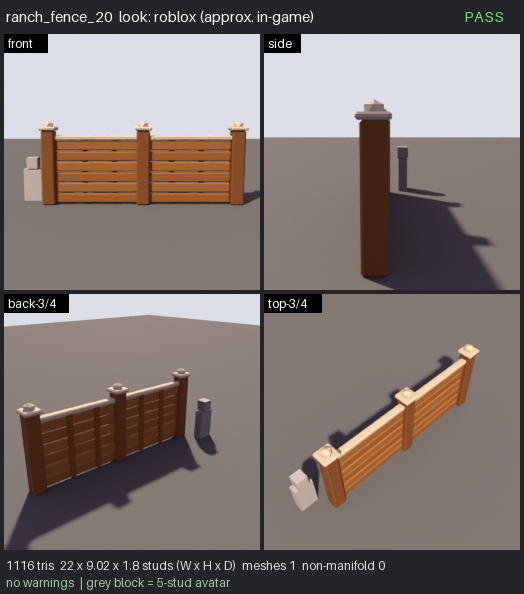
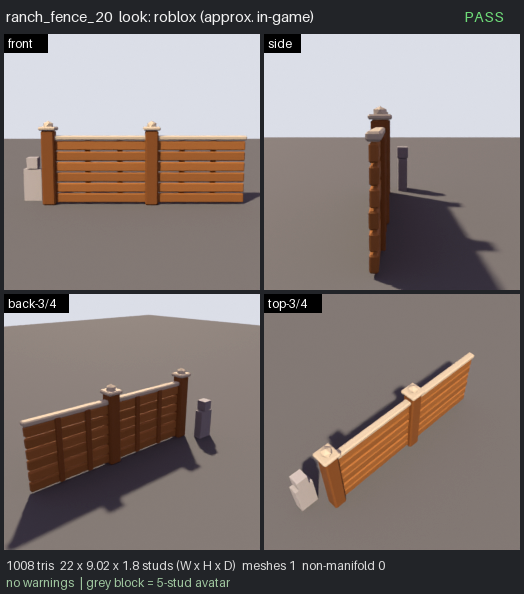
modeling-kit: ranch_fence_20 + ranch_landing_ring with one end post (no doubled posts at seams)
Both pieces had a post/stake at each end, so tiled runs showed two side by
side at every seam. The post now sits at the -X end only (like
phoenix_fence_segment); native sizes are unchanged (22 x 9.02 x 1.8 and
13.145 x 3.145 x 10.27), so the game's slot fits and asset entries hold until
the re-upload.

diff --git a/shared/modeling-kit/models/ranch_fence_20.py b/shared/modeling-kit/models/ranch_fence_20.py
@@ -1,15 +1,19 @@
-# ranch_fence_20: 20-stud plot fence = two phoenix_fence_segment bays joined, with a post at both ends
-# and a mid post at the 10-stud mark. Same posts/planks/rail/battens/colours/height (shared helpers in
-# models/_phoenix_ranch.py). Outer face -Y. End posts sit at x=+-10.1 so the native length is 22.0
-# (11 per 10 studs, like the segment): a uniform 20/22 = 10/11 scale tiles a 20-stud grid and gives
-# the exact same height as phoenix_fence_segment at FENCE_SCALE.
+# ranch_fence_20: 20-stud plot fence = two phoenix_fence_segment bays joined. Like the segment it has
+# a post at its -X end only (plus the mid post): the next panel's -X post closes the +X end, so a run
+# shows ONE post per joint (r02; r01 had posts at both ends, doubled where panels met). Same posts/
+# planks/rail/battens/colours/height (shared helpers in models/_phoenix_ranch.py). Outer face -Y.
+# Native length stays 22.0 (11 per 10 studs, like the segment): the -X post cap reaches x=-11.0, the
+# rail x=+11.0, so a uniform 20/22 = 10/11 scale tiles a 20-stud grid at the same height as
+# phoenix_fence_segment at FENCE_SCALE, and the posts land where two segments put theirs.
 from lib import *
 from models._phoenix_ranch import *
-END = SEG + 0.1  # 22.0 overall incl. caps (1.8 wide)
+END = SEG + 0.1  # -X post centre; with the 1.8 cap the panel spans -11.0..+11.0
+MID = 0.9        # second bay's post: two segments at 10/11 put theirs at -10.1 and +0.9 native
+RAIL = 0.1       # board_wall's rail overhangs each end by 0.1
 parts = []
-for i, x in enumerate((-END, 0.0, END)):
+for i, x in enumerate((-END, MID)):
     parts += rpost(f"Post{i}", x, 0, WALL_H)
-# same span as the segment wall: from the post's inner face into the next post's centre
-parts += board_wall("WA", -END + POST_W / 2, 0.0, WALL_H - 0.3, seed=3)
-parts += board_wall("WB", 0.0, END - POST_W / 2, WALL_H - 0.3, seed=4)
+# walls from the post's inner face into the mid post's centre, then on to the open +X end
+parts += board_wall("WA", -END + POST_W / 2, MID, WALL_H - 0.3, seed=3)
+parts += board_wall("WB", MID, END + 0.9 - RAIL, WALL_H - 0.3, seed=4)
 finish("ranch_fence_20", parts)

diff --git a/shared/modeling-kit/models/ranch_landing_ring.py b/shared/modeling-kit/models/ranch_landing_ring.py
@@ -1,6 +1,6 @@
 # ranch_landing_ring: one curb segment for the wild-slime landing ring around the fountain plaza
 # (Slime Ranch). A curved, soft ranch_plaza curb on the INNER edge of the wild landing band
-# (r34-62): curb r34-35.7, ~12 studs of arc, wood stake posts + butter caps, and a goo splat
+# (r34-62): curb r34-35.7, ~12 studs of arc, a wood stake post + butter cap at the -X end, and a goo splat
 # puddle beyond r36 on the landing side where wilds plop down off the slide.
 # Local frame: arc centre (fountain/plaza centre) is at y = +R, so +Y faces the fountain and the
 # landing side is -Y (outward). Tile it by rotating copies about the plaza centre.
@@ -58,8 +58,9 @@ def on_ring(r, deg):
     return math.sin(a) * r, R - math.cos(a) * r, -deg  # x, y, yaw
 
 
-# wood stakes at both ends of the segment (shared visual rhythm when tiled) with butter caps
-for deg in (-SPAN / 2 + 0.6, SPAN / 2 - 0.6):
+# one wood stake per segment, at its -X end, with a butter cap: tiled, the next segment's stake
+# closes this one's +X end, so each seam shows ONE stake (r01 had both ends: doubled at every seam)
+for deg in (-SPAN / 2 + 0.6,):
     x, y, yaw = on_ring(R + 0.85, deg)
     s = box("Stake", (0.8, 0.8, 2.6), (x, y, 1.3), rot=(0, 0, yaw))
     bevel(s, 0.12)

diff --git a/shared/modeling-kit/LESSONS.md b/shared/modeling-kit/LESSONS.md
@@ -136,3 +136,4 @@ Format: `- [model/YYYY-MM-DD/bot] lesson` — one concrete, reusable sentence or
 - [ranch props placement/2026-10-16/archer] Uploading a mesh doesn't put it in the world: 39 of 58 uploaded models had no WorldLayout slot. Keep placement in one data table (`src/visuals/shared/RanchProps.luau`, polar or plot-local anchors, uniform `scale`) and make a spec check that every `MeshAssets.NAMES` entry has a slot or an `INTENTIONALLY_UNPLACED` reason. Check footprints as turned rectangles against named keep-clear zones (`PropClearance`), not a radius guess. The hub is tighter than it looks: landing band r34-62, parade lane r64.75-71.25 (gate posts 62.25-73.75) and the ring path r74-82 leave nothing inside r83. Props go on the plaza edge (r83-100, between the entrance corridors), next to the entrances, and behind the plots. The 8 plot wedges only open past r~108.
 - [fence segments/2026-10-16/archer] The 11-stud kit fence segment tiles a 10-stud grid at a uniform 10/11 scale. Keep the plain walls as invisible colliders and make the segments visual-only (CanCollide off), so collision is the same whether the mesh loaded or failed. A perimeter-sampling spec (0.25-stud steps round the fence line, exactly one open run, on the front, 14-20 wide) catches a second opening. 240 segments plus the props take the map to ~450 mesh slots, so the THEME <= 150 budget is now an explicit `WorldLayout.MESH_SLOT_BUDGET`.
 - [fountain bevel collider/2026-10-16/archer] A stepped profile needs one collider per step: plinth r13.1 0-1.5, trim r12.3 1.5-2.4, wall r11.2 1.5-31.3. Leave out the middle step and feet sink 1.1 studs at the bevel. Assert the walkable silhouette (the highest colliding top at radius r) against literal numbers in every MeshSwap state.
+- [one end post/2026-10-16/archer] Tiling pieces get a post at ONE end only (ranch_fence_20 r02, ranch_landing_ring r03). A post at both ends doubles at every seam once the pieces tile. Put the post at the -X end (like phoenix_fence_segment) and keep the native bbox the same (extend the wall/rail to where the old +X cap reached), so the game's slot fit and the uploaded meshSize don't change. Laid out in a consistently oriented loop, every joint and corner then gets exactly one post; only an open end (e.g. beside a gate) needs a separate closing post.
